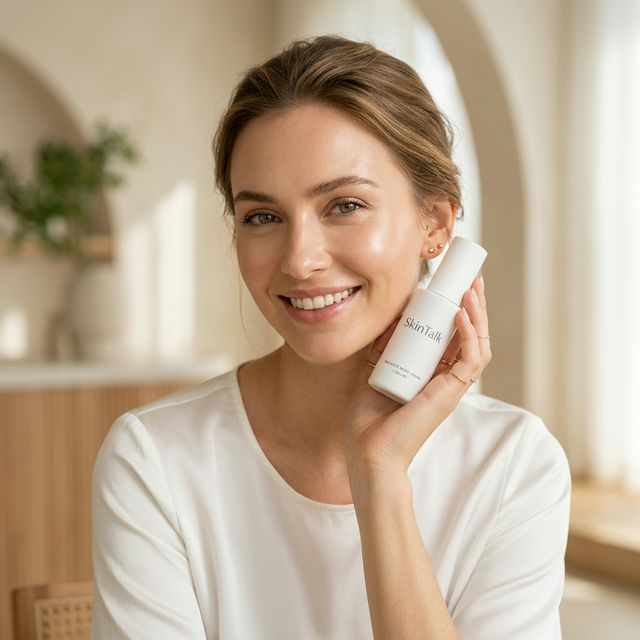
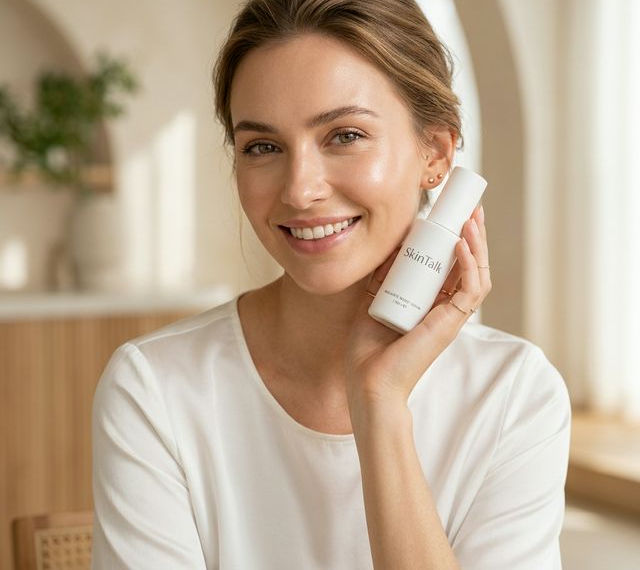
feat: Redesign mobile hero section with improved parallax effect and updated styling.

diff --git a/src/app/globals.css b/src/app/globals.css
@@ -686,22 +686,61 @@ h1, h2, h3, h4 {
 }
 
 /* Mobile */
+/* Hide mobile menu trigger on desktop by default */
+.mobile-menu-trigger {
+    display: none;
+}
+
 @media (max-width: 992px) {
     .hero {
-        flex-direction: column;
-        height: auto;
-        padding-top: 100px;
+        padding-top: var(--header-height);
+        height: 100vh;
+        min-height: 100vh;
+    }
+    .hero .container {
+        display: grid !important;
+        grid-template-columns: 1fr;
+        grid-template-rows: 1fr;
+        align-items: center;
+        width: 100% !important;
+        padding: 0 !important;
+    }
+    .hero-image-pane {
+        grid-column: 1;
+        grid-row: 1;
+        width: 100%;
+        height: 100vh;
+        z-index: 1;
     }
     .hero-content {
-        padding: 50px 2rem;
+        grid-column: 1;
+        grid-row: 1;
+        z-index: 2;
+        padding: 2.5rem 2rem;
         text-align: center;
+        justify-self: center;
+        background: rgba(255, 255, 255, 0.4);
+        backdrop-filter: blur(12px);
+        -webkit-backdrop-filter: blur(12px);
+        border: 1px solid rgba(255, 255, 255, 0.5);
+        border-radius: 20px;
+        width: 90%;
+        max-width: 450px;
+        box-shadow: 0 8px 32px rgba(0, 0, 0, 0.1);
+    }
+    .hero-subtitle {
+        color: #111 !important;
+        font-weight: 600;
     }
     .hero-title {
         font-size: 3rem;
+        color: #111 !important;
+        text-shadow: 0 2px 10px rgba(255,255,255,0.5);
     }
-    .hero-image-pane {
-        width: 100%;
-        height: 500px;
+    .hero-content p {
+        color: #333 !important;
+        font-weight: 500;
+        text-shadow: 0 1px 5px rgba(255,255,255,0.5);
     }
     .collections-grid {
         grid-template-columns: 1fr;

diff --git a/src/app/page.tsx b/src/app/page.tsx
@@ -32,11 +32,11 @@ function FadeIn({ children, delay = 0, className = '' }: { children: React.React
 
 function ParallaxImage({ src, alt, className = '' }: { src: string; alt: string; className?: string }) {
     const ref = useRef(null);
-    const { scrollYProgress } = useScroll({ target: ref, offset: ["start end", "end start"] });
-    const y = useTransform(scrollYProgress, [0, 1], [0, -50]);
+    const { scrollYProgress } = useScroll({ target: ref, offset: ["start start", "end start"] });
+    const y = useTransform(scrollYProgress, [0, 1], ["0%", "30%"]);
     return (
-        <motion.div ref={ref} style={{ y, width: '100%', height: '100%' }} className={className}>
-            <img src={src} alt={alt} style={{ width: '100%', height: '100%', objectFit: 'cover' }} />
+        <motion.div ref={ref} style={{ width: '100%', height: '100%', overflow: 'hidden', position: 'relative' }} className={className}>
+            <motion.img src={src} alt={alt} style={{ y, width: '100%', height: '120%', objectFit: 'cover', top: '-10%', left: 0, position: 'absolute' }} />
         </motion.div>
     );
 }
